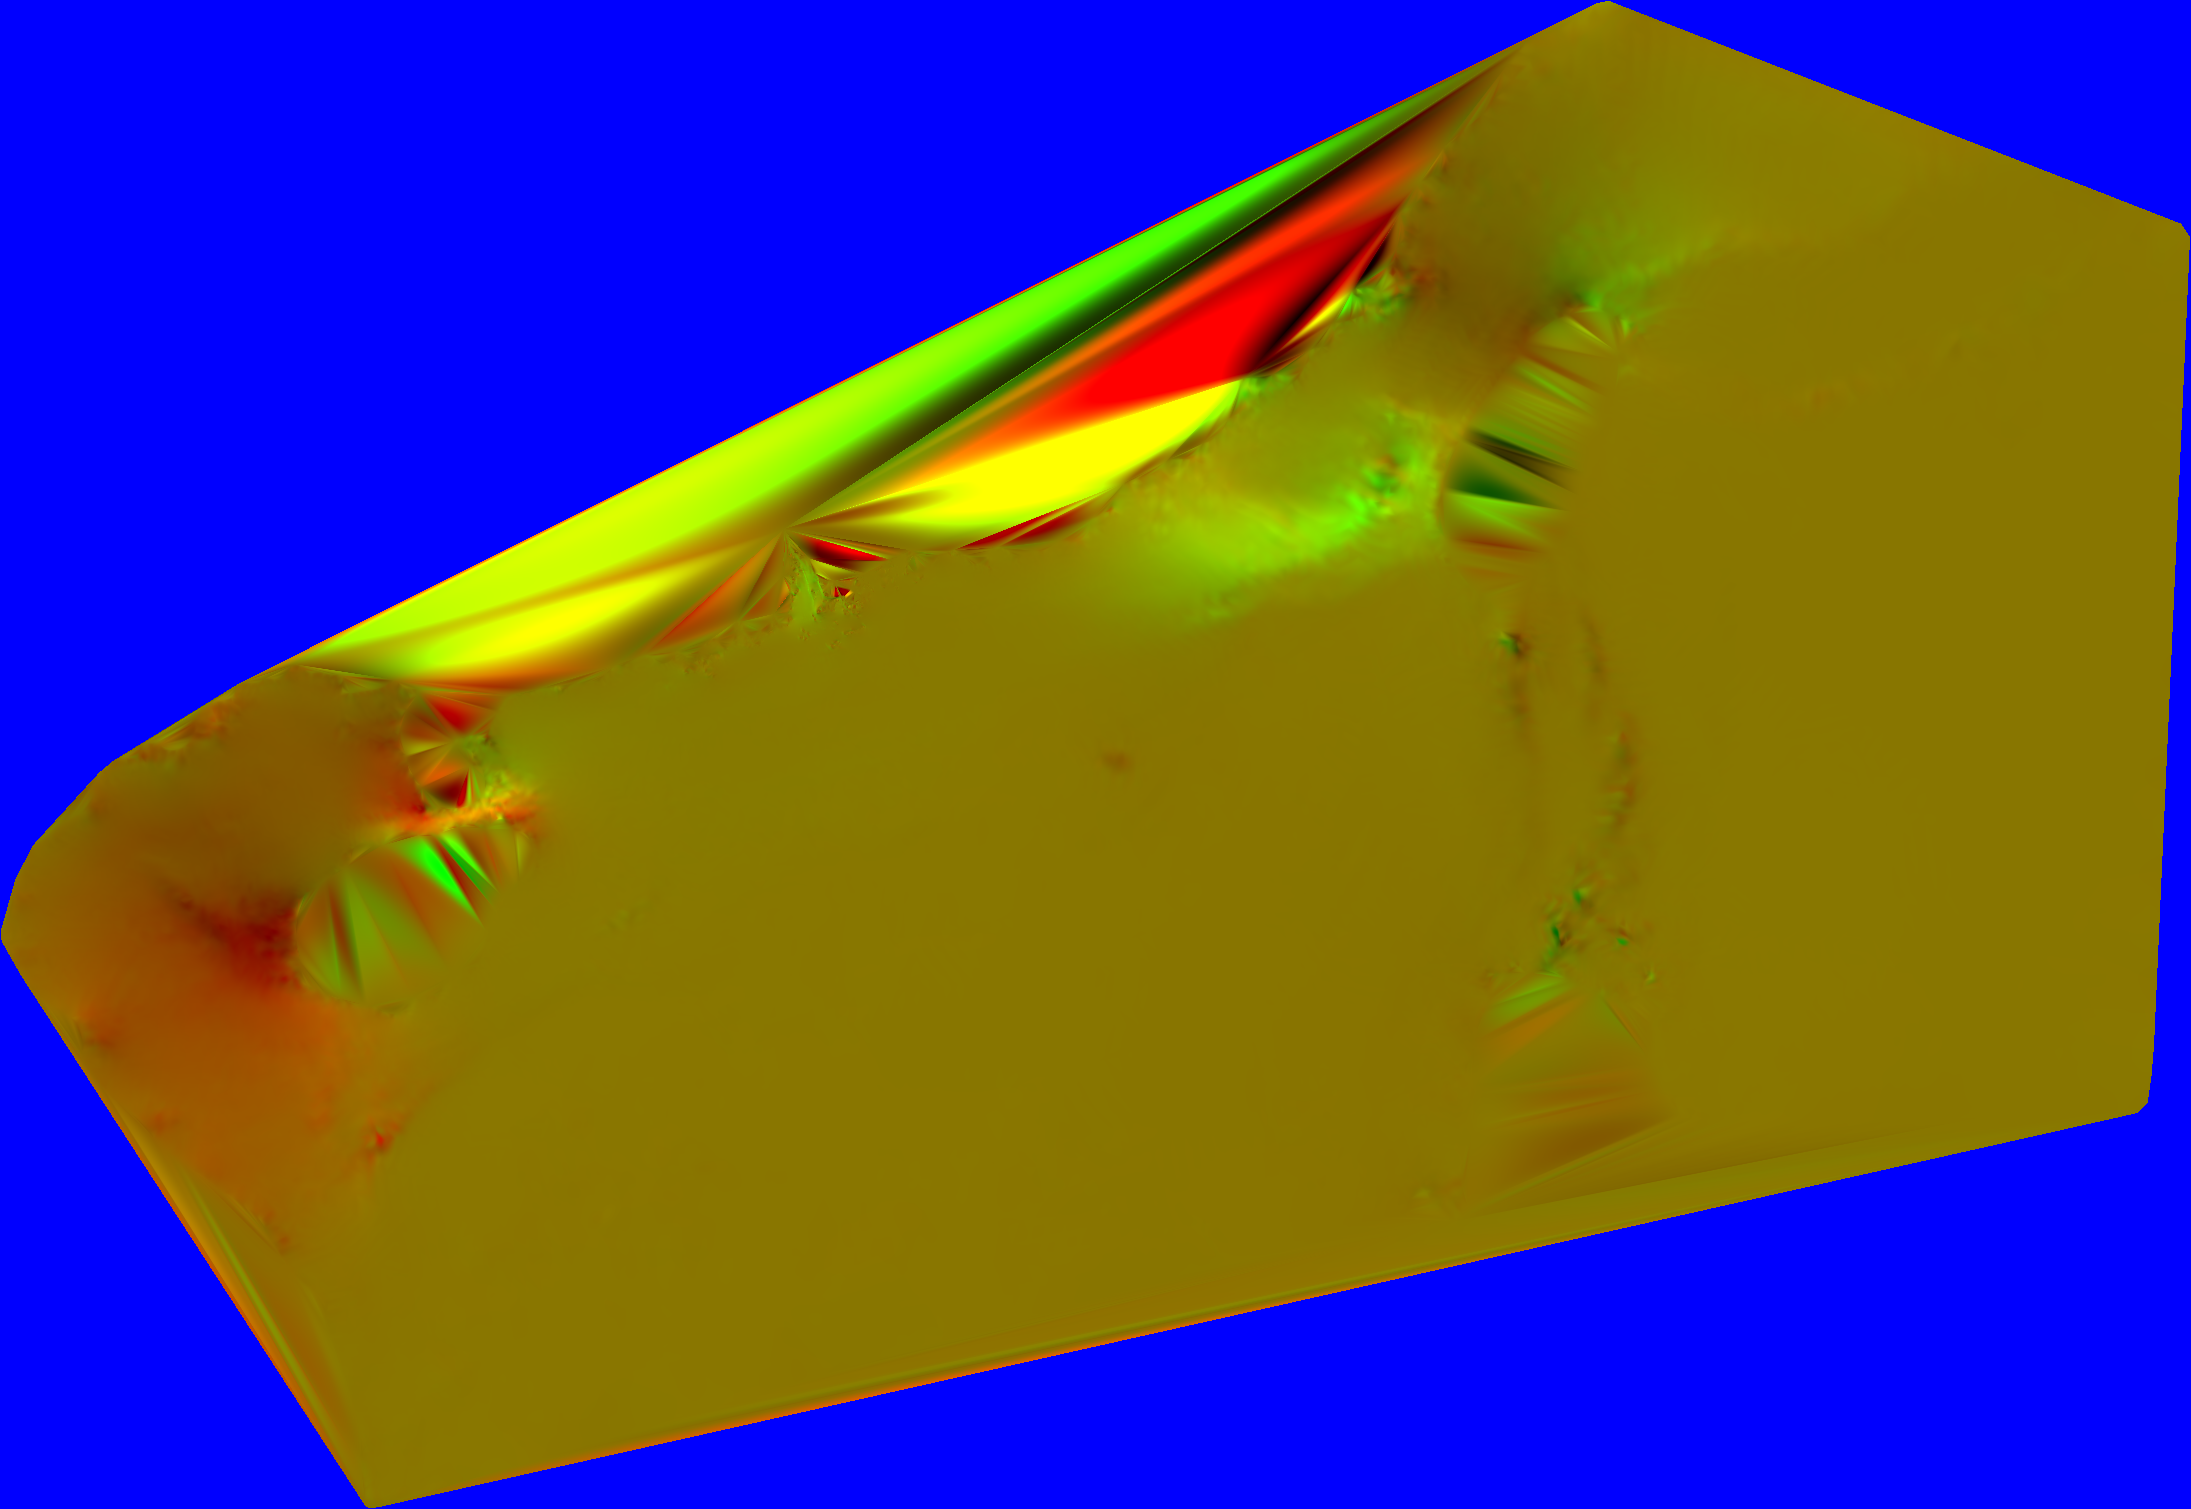
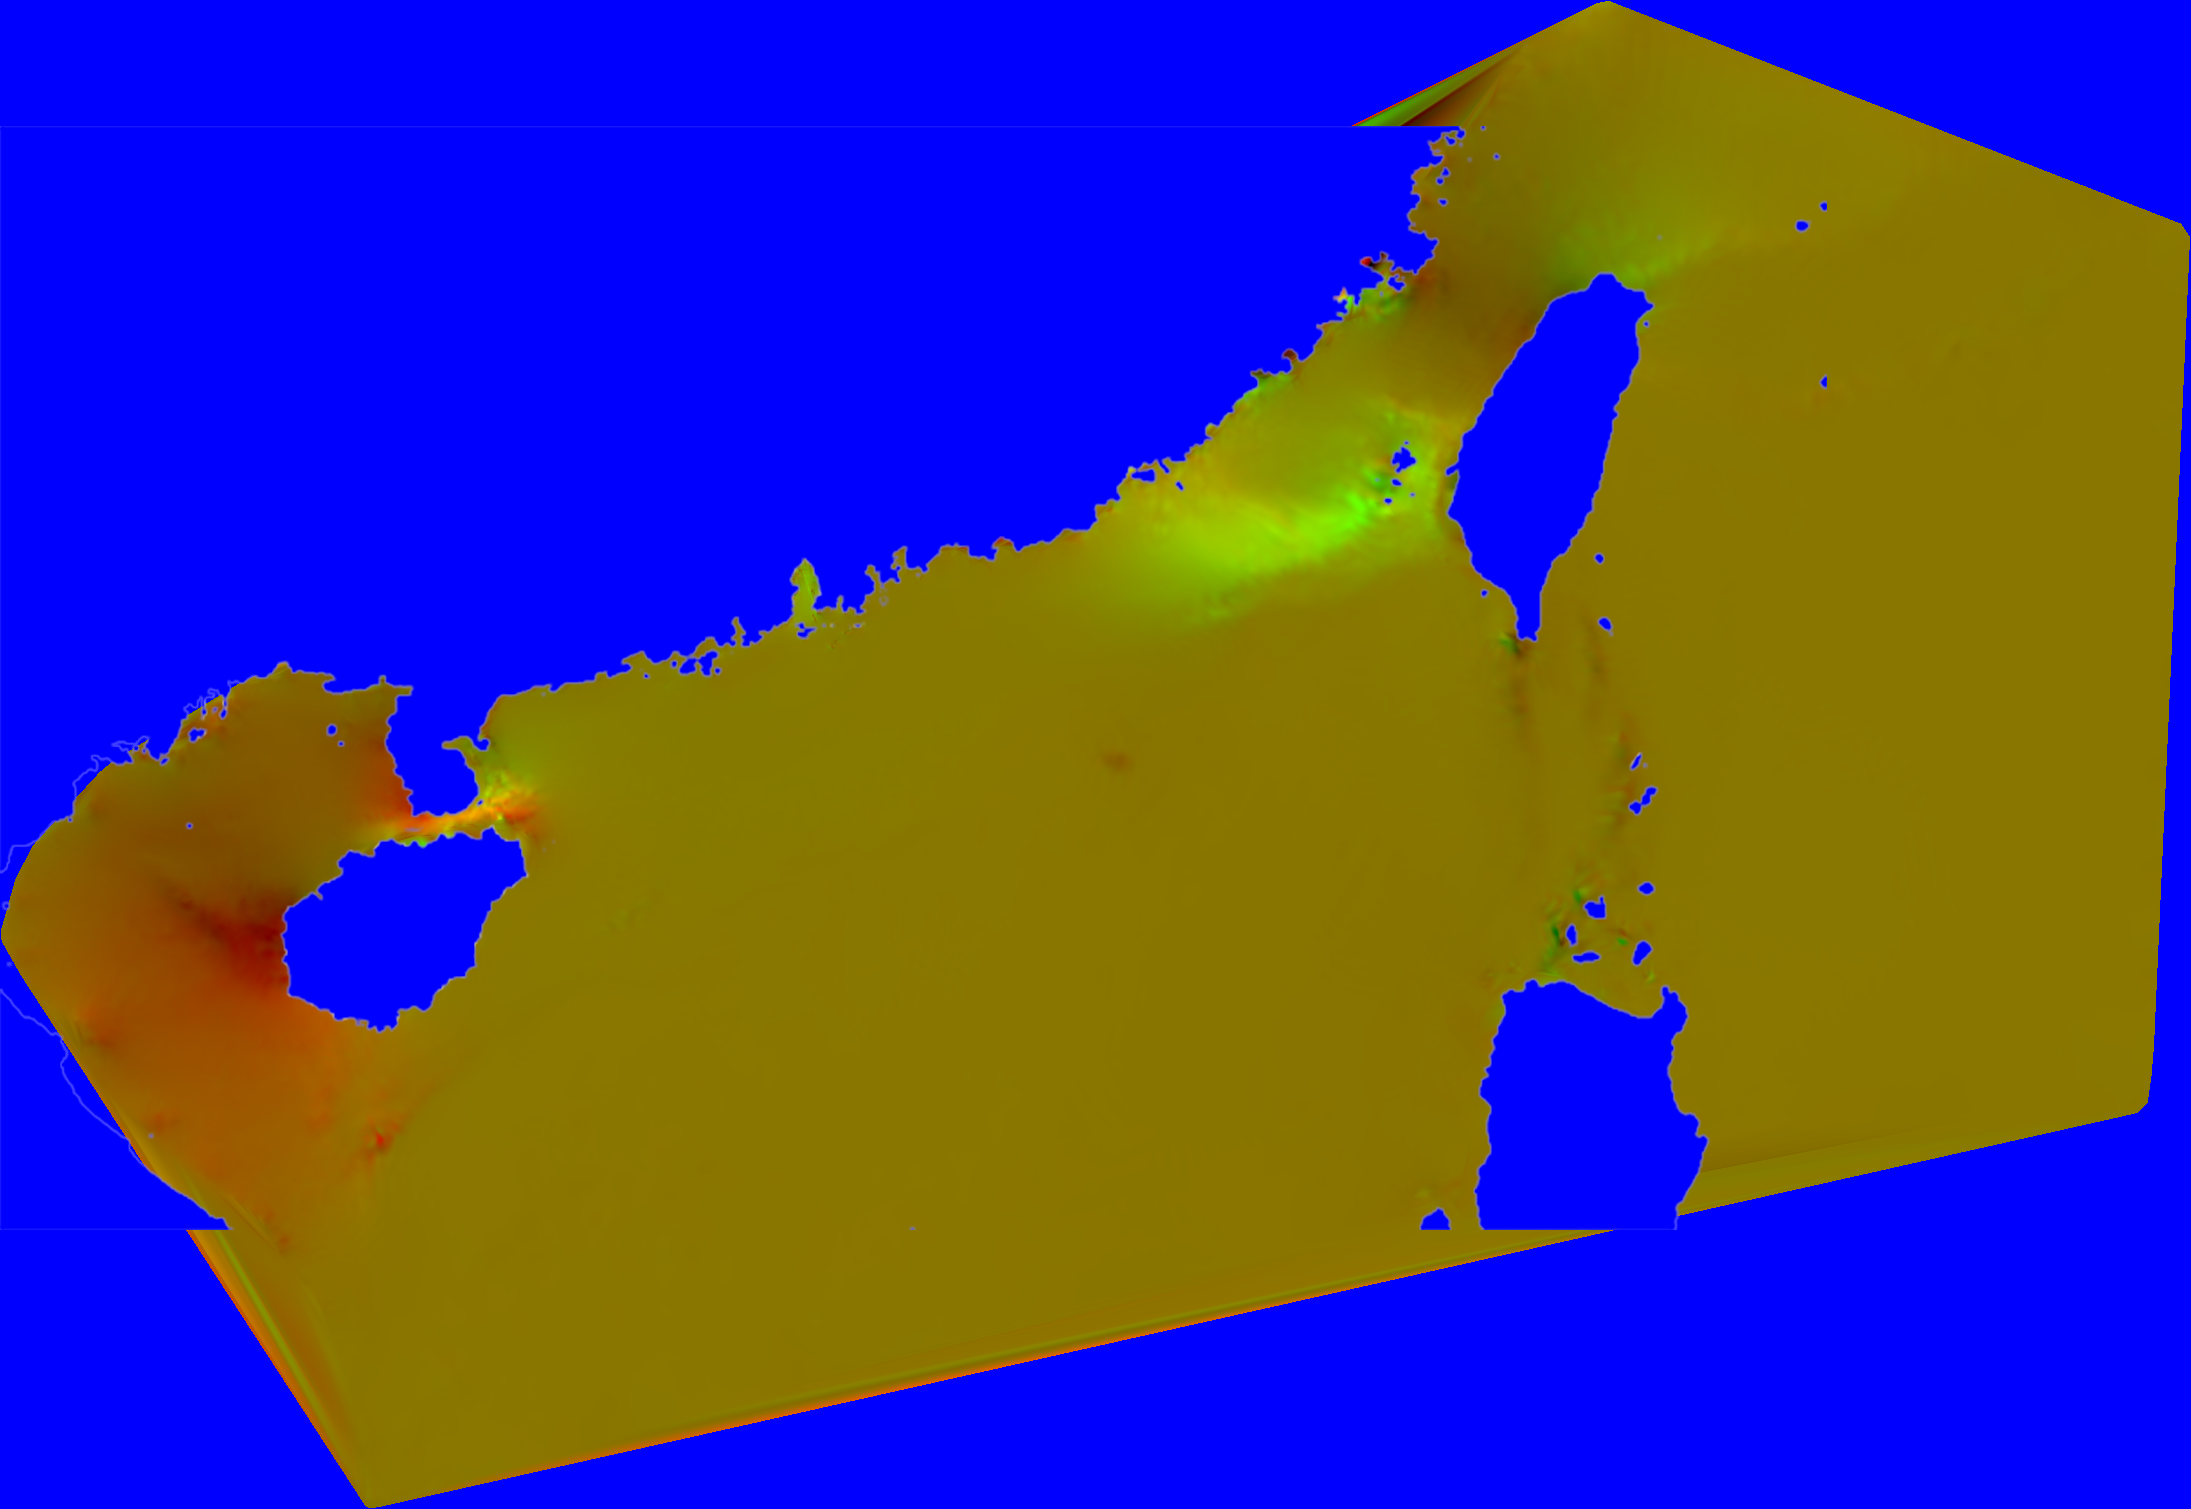
修改确保获取数据后显示粒子效果

diff --git a/Cesium-3D-Wind/wind3D.js b/Cesium-3D-Wind/wind3D.js
@@ -237,7 +237,7 @@ class Wind3D {
                                     se = true;
                                     break;
                             }
-                            if((nw === ne === sw === se) && nw === true){
+                            if(nw === true && nw === ne && ne === sw && sw === se){
                                 // 必须确保全部加载出来，否则粒子效果会出错
                                 setTimeout(() => {
                                     console.log(dataCanvas.toDataURL());

diff --git a/data/textData/prepare.py b/data/textData/prepare.py
@@ -8,6 +8,7 @@ import matplotlib.pyplot as plt
 from scipy.interpolate import griddata
 import numpy.ma as ma
 import png
+from PIL import Image
 
 req_date = "2021-02-24 08:00:00"
 lon = []
@@ -112,6 +113,11 @@ for i in range(len(ugrid)):
             for color in pixel:
                 uvImage[i].append(color)
 png.from_array(uvImage, 'RGBA').save("ocean_flow.png")
+map_coast = Image.open('map_transparent.png')
+data_png = Image.open('ocean_flow.png')
+data_png.paste(map_coast, (0, 0), map_coast)
+data_png.save('ocean_flow.png')
+
 
 meta = {
     "leftlon": leftLon,
